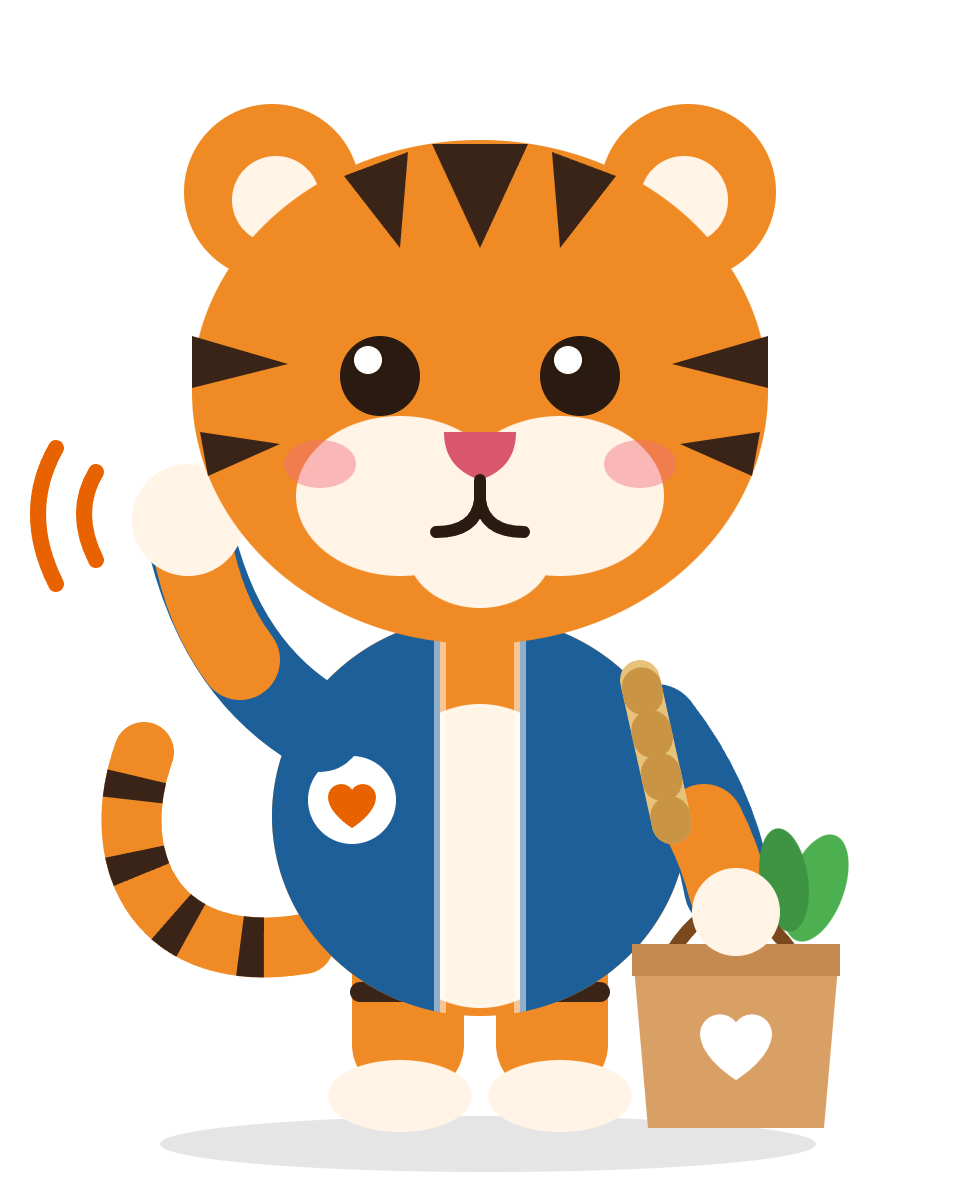
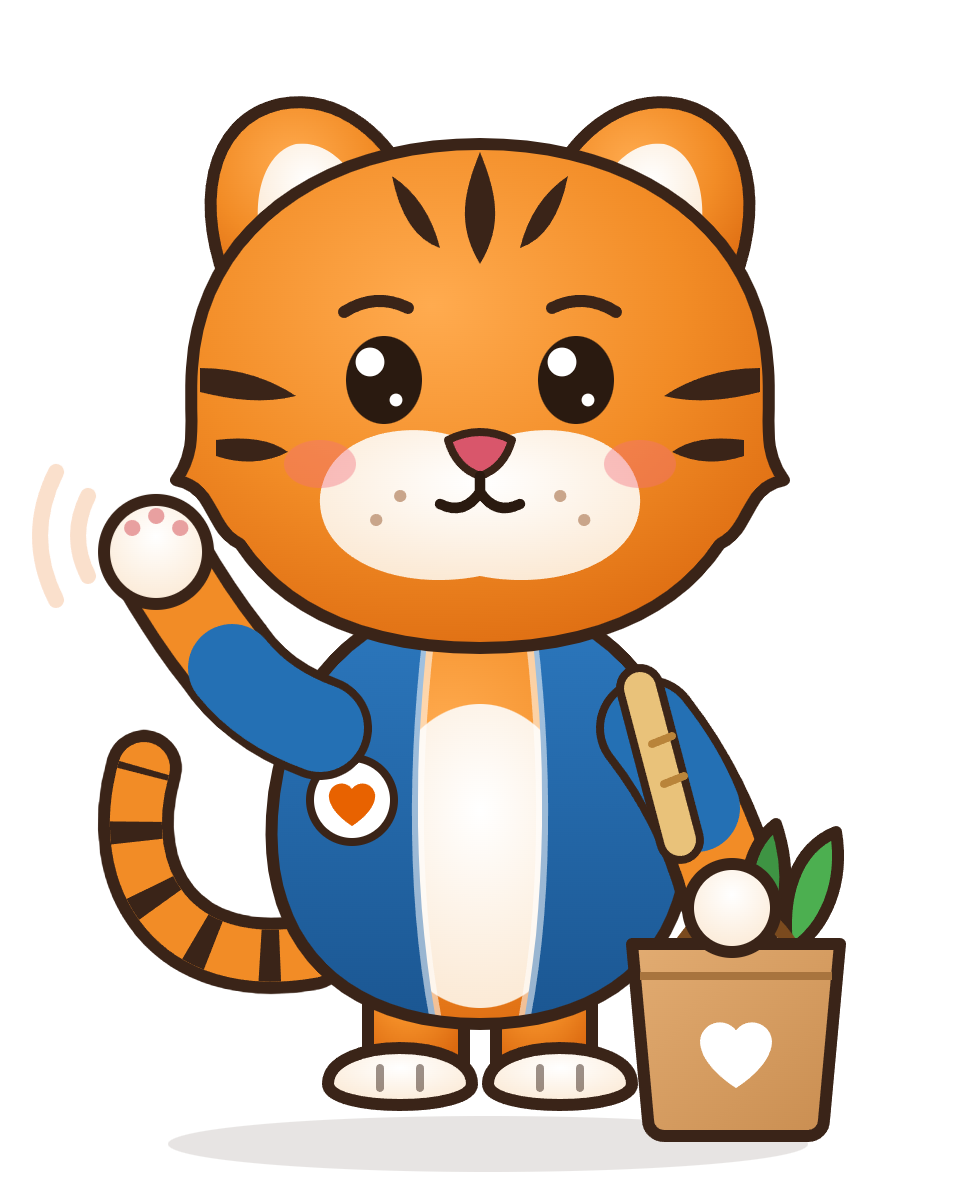
feat(web): smoother animated mascot
Redrawn with unified outlines and soft shading; waves, blinks, bobs and wags the tail. Animation stops when reduced motion is preferred.

Changed region(s): [[0.0312, 0.0625, 0.9062, 0.9688]]

diff --git a/docs/brand/README.md b/docs/brand/README.md
@@ -11,7 +11,7 @@
 
 **Маскот «Амурчик»** — тигрёнок-волонтёр. Амурский тигр — символ Приморья, где работает сервис.
 На нём синий жилет волонтёра со значком-сердцем, в руке пакет с продуктами — самое частое поручение.
-Маскот машет рукой — встречает и подбадривает. Он есть на главной, на странице 404 и в пустых списках.
+Маскот анимирован: машет лапой, моргает, слегка покачивается, виляет хвостом, пакет качается. Анимация встроена в сам SVG (CSS), поэтому работает и в теге img. Если в системе включено «уменьшить движение», маскот стоит неподвижно. Он есть на главной, на странице 404 и в пустых списках.
 
 В версии для слабовидящих знак перекрашивается в цвета выбранной схемы, а маскот (это изображение)
 становится чёрно-белым или скрывается — по настройке «Изображения».
